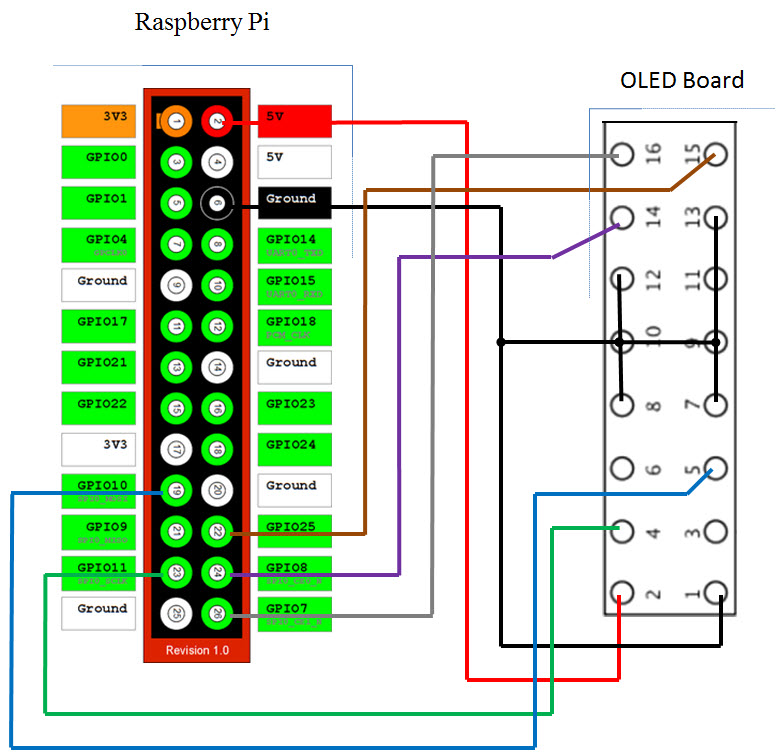
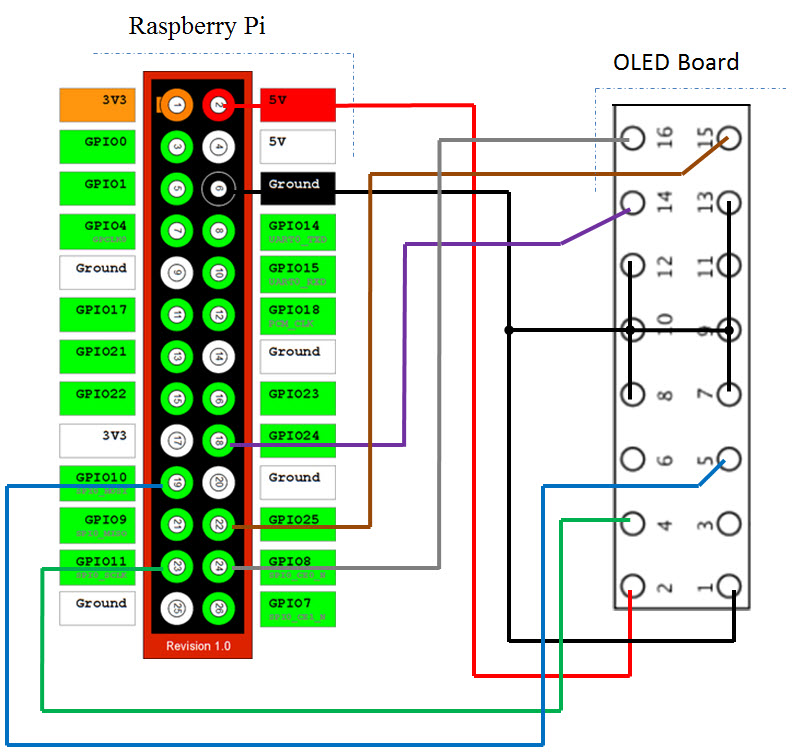
Moved signals off of GPIO used by SPI driver.

Changed region(s): [[0.0, 0.0608, 0.9538, 1.0], [0.1538, 0.0, 0.3385, 0.0608]]

diff --git a/pi/RPI_OLED.py b/pi/RPI_OLED.py
@@ -12,18 +12,18 @@ def resetOLED():
     GPIO.output(25,True)  # Release reset
     time.sleep(1.0)       # Give the chip a second to come up
 
-GPIO.setup(8,GPIO.OUT)  #  8 D/C
+GPIO.setup(24,GPIO.OUT)  #  8 D/C
 
 # Bit-banging the SPI port
 #
 GPIO.setup(10,GPIO.OUT) # 10 MOSI
 GPIO.setup(11,GPIO.OUT) # 11 SCLK
 GPIO.output(11,True)    #    Clock is idle-high
-GPIO.setup(7,GPIO.OUT)  #  7 Chip Select (active low)
-GPIO.output(7,False)    #    Select the chip
+GPIO.setup(8,GPIO.OUT)  #  7 Chip Select (active low)
+GPIO.output(8,False)    #    Select the chip
 #
 def Write_Instruction(dataByte):
-    GPIO.output(8,False) # Select command register
+    GPIO.output(24,False) # Select command register
     for x in xrange(8):
         GPIO.output(10, (dataByte&0x80)!=0)    
         GPIO.output(11, False)
@@ -31,7 +31,7 @@ def Write_Instruction(dataByte):
         GPIO.output(11, True)   
 #
 def Write_Data(dataByte):
-    GPIO.output(8,True) # Select data register
+    GPIO.output(24,True) # Select data register
     for x in xrange(8):
         GPIO.output(10, (dataByte&0x80)!=0)    
         GPIO.output(11, False)
